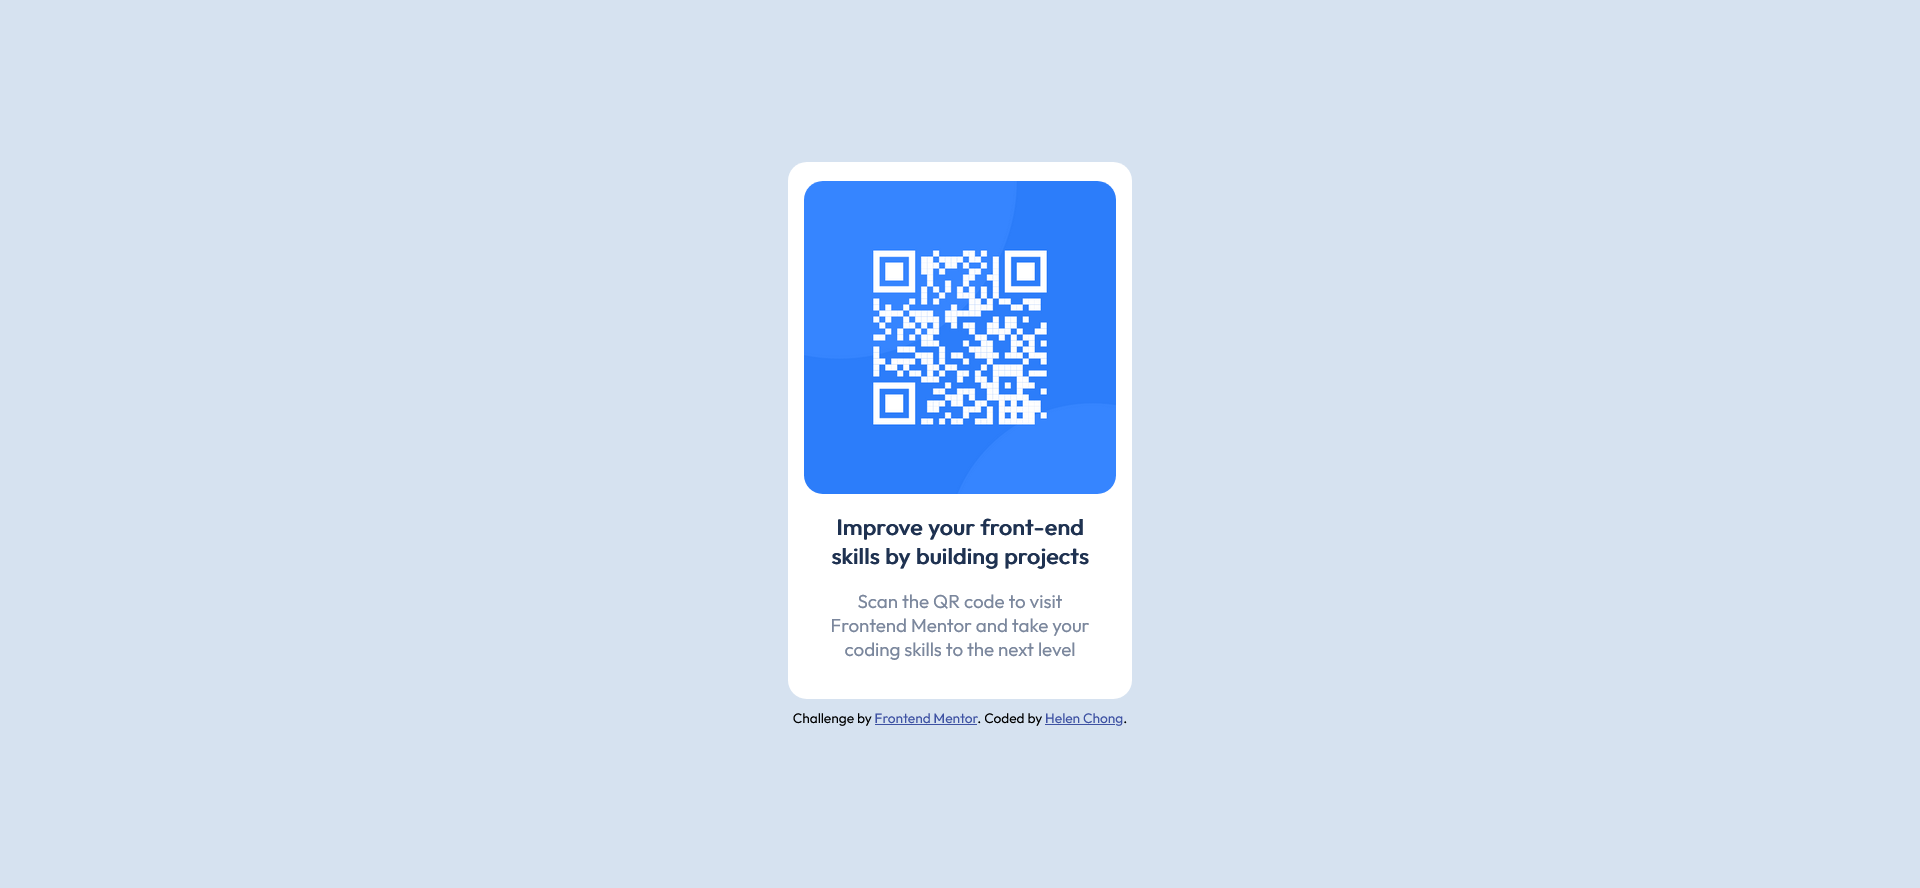
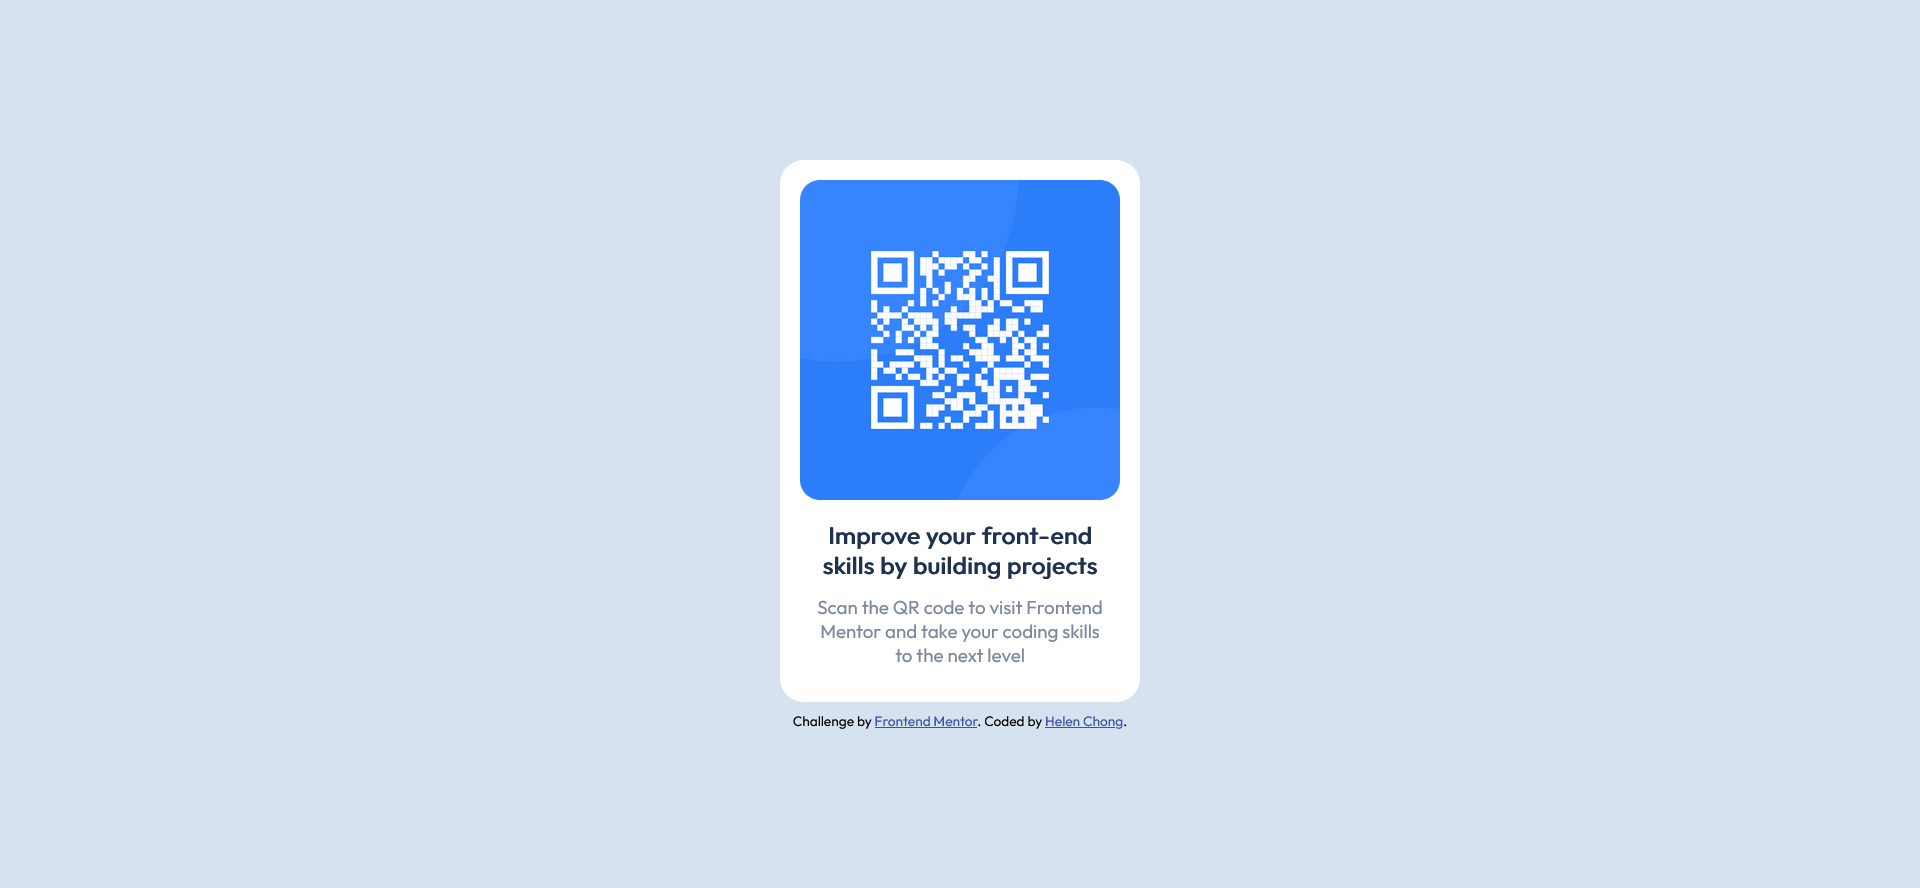
Tweaked the code to be more responsive
Credit to Hassia Issah for their feedback to improve my code.

Changed region(s): [[0.4062, 0.1824, 0.5938, 0.8209]]

diff --git a/01-qr-code-component/index.css b/01-qr-code-component/index.css
@@ -1,3 +1,5 @@
+@import url(https://fonts.googleapis.com/css?family=Outfit);
+
 :root {
     --white: hsl(0, 0%, 100%);
     --light-gray: hsl(212, 45%, 89%);
@@ -15,31 +17,35 @@ body {
     font-family: 'Outfit', sans-serif;
     font-weight: 400 700;
     background: var(--light-gray);
-    text-align: center;
-    height: 100vh;
+    min-height: 100vh;
     display: flex;
     justify-content: center;
     align-items: center;
 }
 
 h1 {
-    margin: 15px 0;
     color: var(--dark-blue);
-    font-size: 18px;
+    font-size: 1.2rem;
     font-weight: 700;
+    text-align: center;
+    margin-left: 1rem;
+    margin-right: 1rem;
+    margin-top: 1rem;
 }
 
 p {
     font-size: 15px;
     color: var(--grayish-blue);
+    text-align: center;
+    margin: 0.75rem;
 }
 
 .qr-container {
     background: var(--white);
-    width: 275px;
+    max-width: 18rem;
+    padding: 1rem;
     margin: 0 auto;
-    padding: 15px 30px 30px 30px;
-    border-radius: 15px;
+    border-radius: 1.2rem;
     display: flex;
     flex-direction: column;
     justify-content: space-evenly;
@@ -47,8 +53,8 @@ p {
 }
 
 .qr-img {
-    width: 250px;
-    border-radius: 15px;
+    max-width: 100%;
+    border-radius: 1rem;
 }
 
 .attribution {

diff --git a/01-qr-code-component/index.html b/01-qr-code-component/index.html
@@ -2,11 +2,10 @@
 <html lang="en">
     <head>
         <meta charset="UTF-8">
-        <meta name="viewport" content="width=device-width, initial-scale=1.0"> <!-- displays site properly based on user's device -->
+        <meta name="viewport" content="width=device-width, initial-scale=1.0">
 
         <link rel="icon" type="image/png" sizes="32x32" href="./images/favicon-32x32.png">
         <link rel="stylesheet" href="./index.css">
-        <link rel="stylesheet" href="https://fonts.googleapis.com/css?family=Outfit">
         
         <title>QR code component | Frontend Mentor Challenge</title>
     </head>

diff --git a/01-qr-code-component/README.md b/01-qr-code-component/README.md
@@ -13,6 +13,7 @@ This is a solution to the [QR code component challenge on Frontend Mentor](https
   - [Continued development](#continued-development)
   - [Useful resources](#useful-resources)
 - [Author](#author)
+- [Acknowledgments](#acknowledgments)
 
 ## Overview
 
@@ -61,3 +62,7 @@ This challenge has been a good exercise in practicing my HTML and CSS skills, an
 
 - Website - [Helen Chong](https://helenclx.github.io/)
 - Frontend Mentor - [@helenclx](https://www.frontendmentor.io/profile/helenclx)
+
+## Acknowledgments
+
+- [Hassia Issah](https://www.frontendmentor.io/profile/Hassiai) for providing feedback to improve my code.
